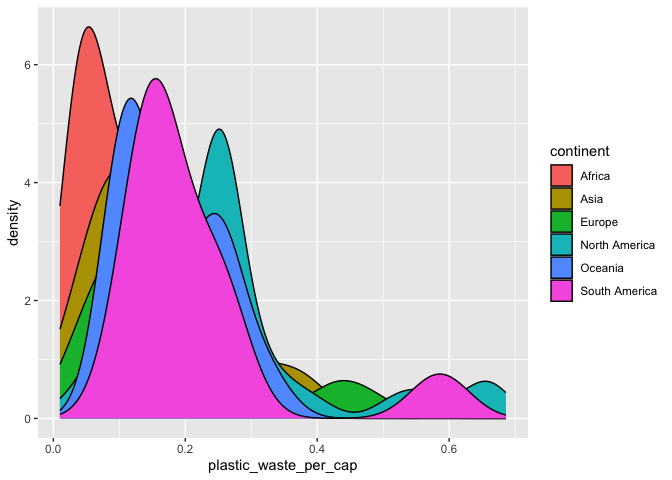
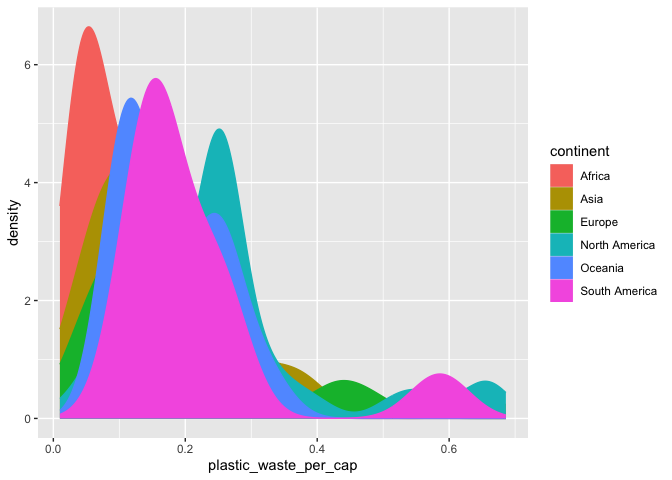
Exercice 4

diff --git a/lab-02.md b/lab-02.md
@@ -42,9 +42,9 @@ distribution de l’Europe et de l’Amérique du Nord sont plus étendues, ce
 qui indique des niveaux plus variés entre les pays. En Océanie, les
 données sont plutôt concentrées dans la tranche inférieure, ce qui
 suggère une faible production de déchets plastiques par habitant.
-Finalement, pour l’Afrique, il est possible de voir une séparation nette
-entre deux groupes, mais leur niveau de production de déchets reste tout
-de même relativement faible.
+Finalement, pour l’Amérique du Sud, il est possible de voir une
+séparation nette entre deux groupes, mais leur niveau de production de
+déchets reste tout de même relativement faible.
 
 ### Exercise 2
 
@@ -63,14 +63,14 @@ ggplot(plastic_waste, aes(x = plastic_waste_per_cap, color = continent)) +
 ![](lab-02_files/figure-gfm/plastic-waste-density-2.png)<!-- -->
 
 ``` r
-ggplot(plastic_waste, aes(x = plastic_waste_per_cap, fill = continent)) +
+ggplot(plastic_waste, aes(x = plastic_waste_per_cap, fill = continent, color = continent)) +
   geom_density()
 ```
 
 ![](lab-02_files/figure-gfm/plastic-waste-density-3.png)<!-- -->
 
 ``` r
-ggplot(plastic_waste, aes(x = plastic_waste_per_cap, fill = continent)) +
+ggplot(plastic_waste, aes(x = plastic_waste_per_cap, fill = continent, color = continent)) +
    geom_density(alpha = 0.3)
 ```
 
@@ -107,10 +107,18 @@ répartition (ex: les zones de faibles ou de fortes concentrations).
 ### Exercise 4
 
 ``` r
-# insert code here
+ggplot(data = plastic_waste, aes(x = plastic_waste_per_cap, y = mismanaged_plastic_waste_per_cap, color = continent)) + geom_point()
 ```
 
-Réponse à la question…
+![](lab-02_files/figure-gfm/plastic-waste-mismanaged-1.png)<!-- -->
+
+À partir du graphe de dispersion, il est possible de remarquer une
+relation linéaire, et donc, d’affirmer que plus un habitant produit de
+déchets, plus ceux-ci sont mal gérés. De plus, en se fiant à la couleur
+des points, on remarque que l’Amérique du Nord et l’Europe sont les
+continents qui produisent le plus de déchets, mais aussi ceux qui les
+gèrent le mieux. De l’autre côté, l’Afrique et l’Océanie produit moins
+de déchets, mais ceux-ci sont moins bien gérés.
 
 ### Exercise 5
 
